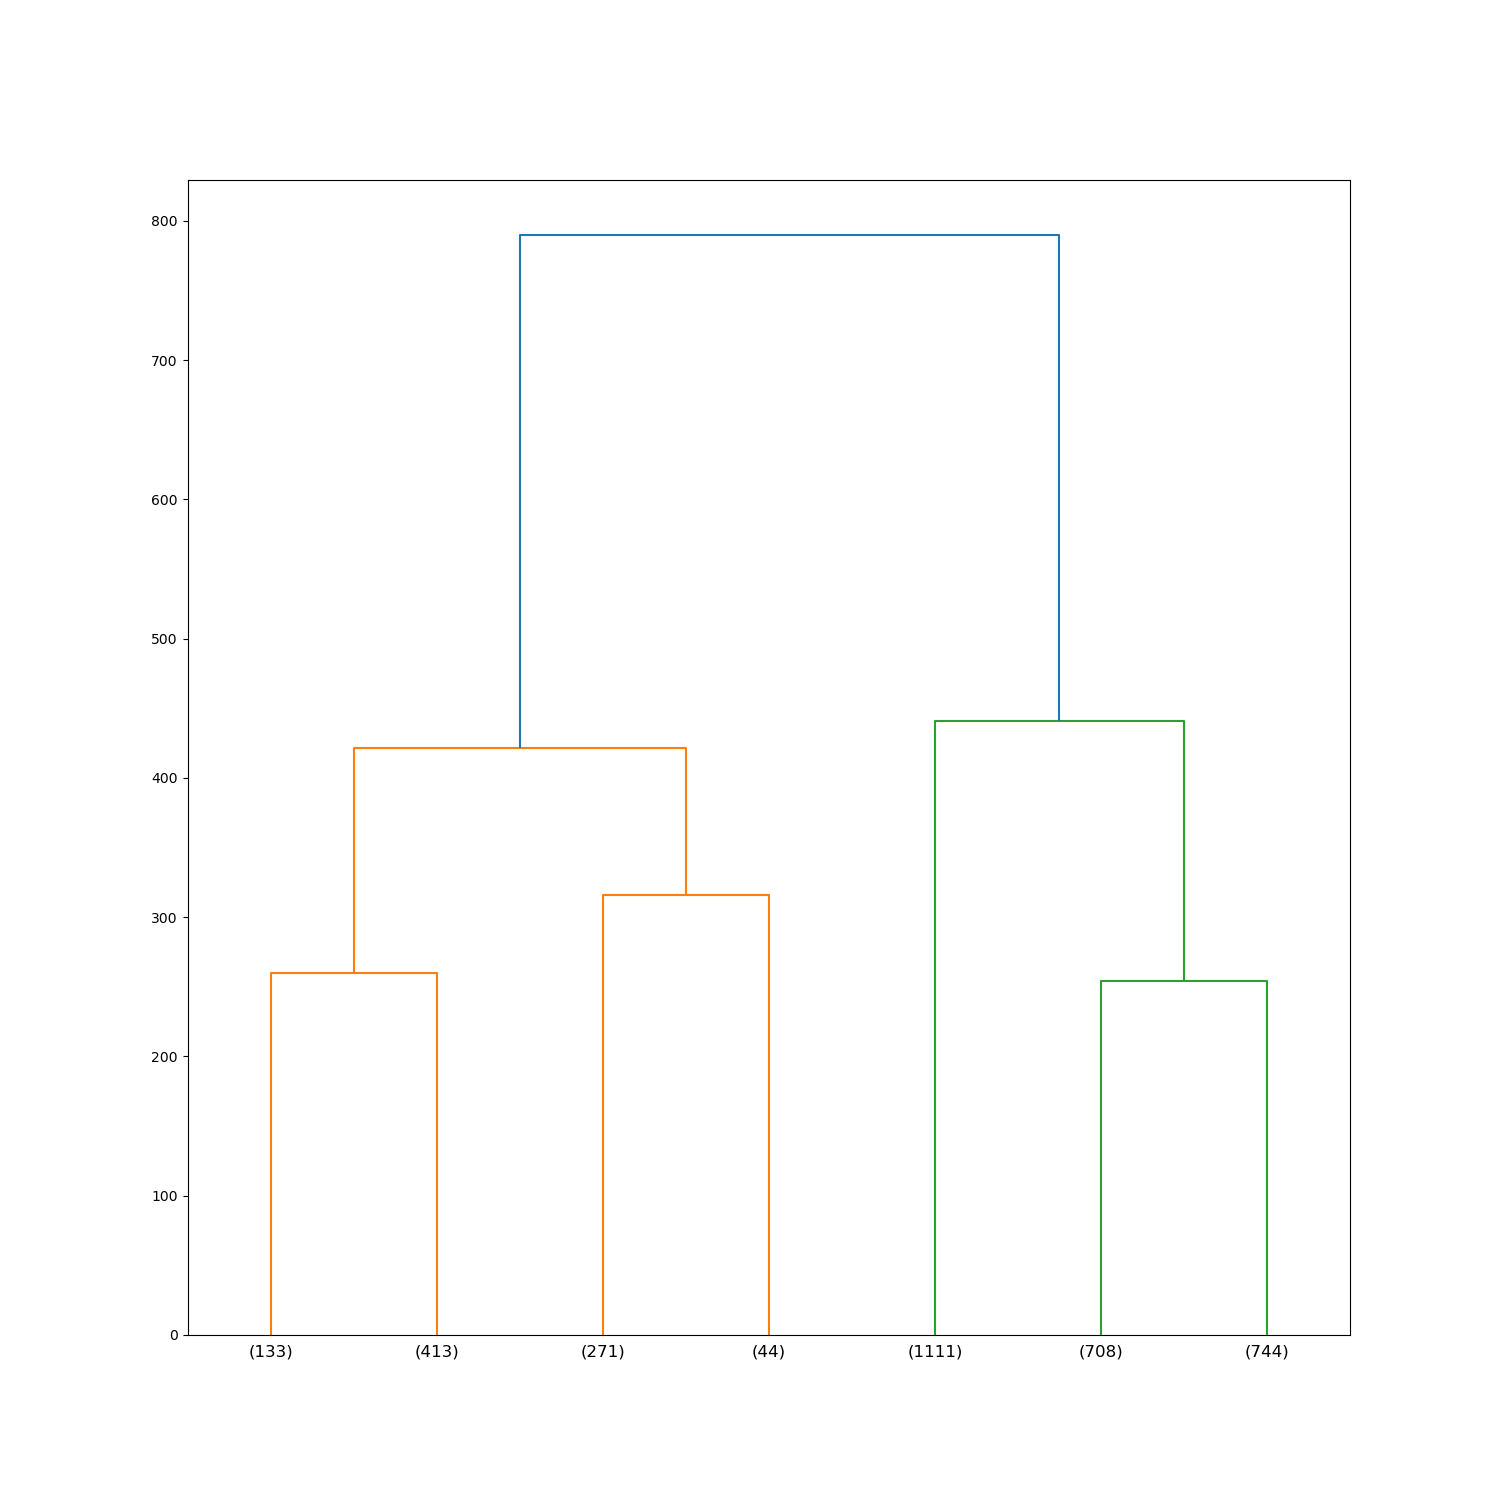
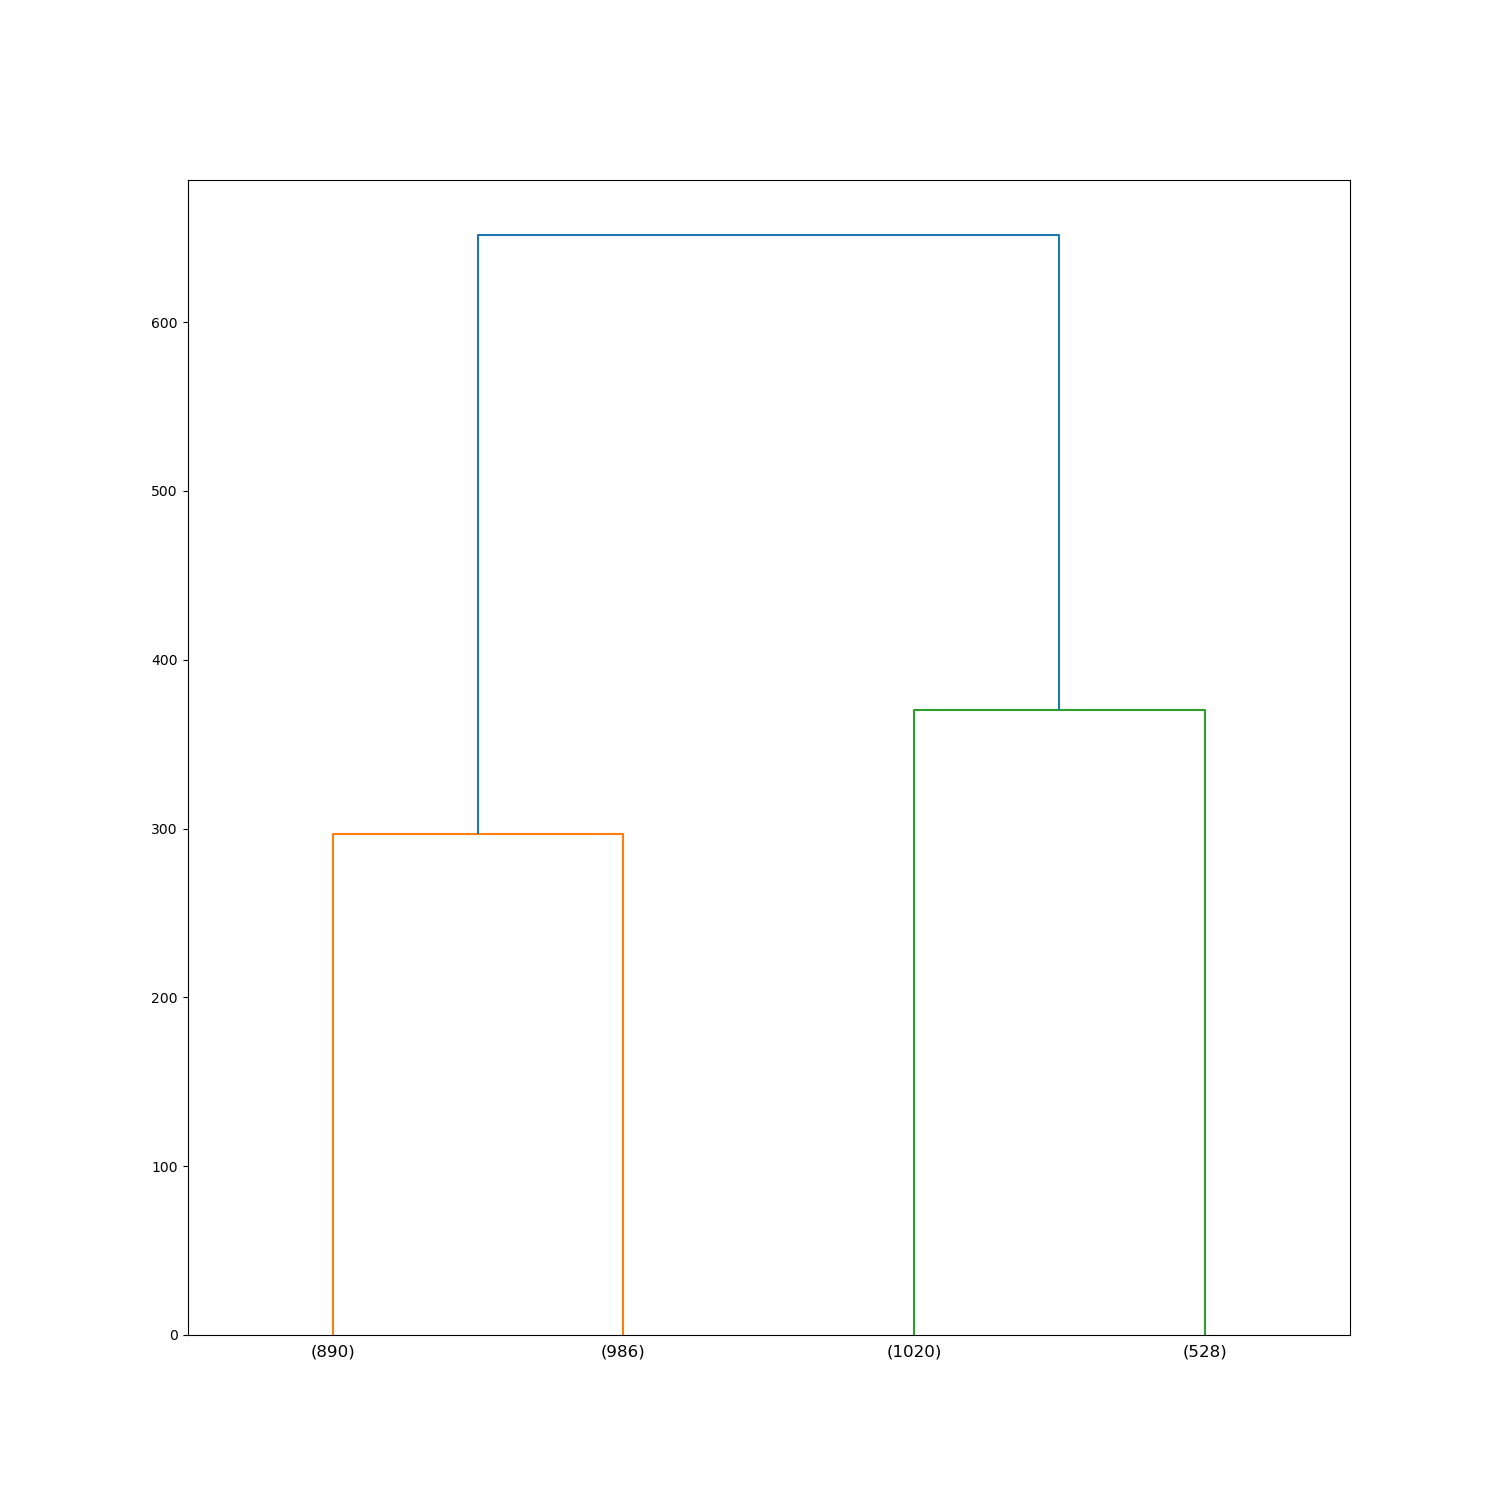
Code

diff --git a/original_images.py b/original_images.py
@@ -14,7 +14,7 @@ import cv2
 encoding_dim = 32
 
 # set the number of clusters
-n_clusters = 2
+n_clusters = 4
 
 
 # load the extracted features
@@ -151,129 +151,134 @@ df["Cluster"] = clusters
 
 
 
-# separate the dataframe into groups based on their cluster
-group_1 = df.loc[df["Cluster"] == 0]
-group_2 = df.loc[df["Cluster"] == 1]
-
-# get a list of 9 random indices for each group
-group_1_random_index = random.sample(range(0, len(group_1)), 25)
-group_2_random_index = random.sample(range(0, len(group_2)), 25)
-
-# get the galaxy id of each of the random indices for each group
-group_1_random = group_1["GalaxyID"].iloc[group_1_random_index].tolist()
-group_2_random = group_2["GalaxyID"].iloc[group_2_random_index].tolist()
-
-print(group_1_random)
-print(group_2_random)
-
-# create the figure for the plot
-fig = plt.figure(constrained_layout=False, figsize=(20, 10))
-
-# create the subfigures for the plot (each group)
-gs1 = fig.add_gridspec(nrows=5, ncols=5, left=0.05, right=0.45, wspace=0.05, hspace=0.05)
-gs2 = fig.add_gridspec(nrows=5, ncols=5, left=0.55, right=0.95, wspace=0.05, hspace=0.05)
-
-count = 0
-
-for i in range(0, 5):
-    for j in range(0, 5):
-
-        g1_ax = fig.add_subplot(gs1[i, j])
-        image = mpimg.imread("/cosma7/data/Eagle/web-storage/RefL0100N1504_Subhalo/galface_" + str(group_2_random[count]) + ".png")
-        g1_ax.imshow(image)
-        g1_ax.get_xaxis().set_visible(False)
-        g1_ax.get_yaxis().set_visible(False)
-
-        g2_ax = fig.add_subplot(gs2[i, j])
-        image = mpimg.imread("/cosma7/data/Eagle/web-storage/RefL0100N1504_Subhalo/galface_" + str(group_1_random[count]) + ".png")
-        g2_ax.imshow(image)
-        g2_ax.get_xaxis().set_visible(False)
-        g2_ax.get_yaxis().set_visible(False)
-
-        # set group title for middle plot of each group
-        if i == 0 and j == 2:
-            g1_ax.set_title(("Group 1 (" + str(np.array(group_2).shape[0]) + ")"), fontsize=25, pad=20)
-            g2_ax.set_title(("Group 2 (" + str(np.array(group_1).shape[0]) + ")"), fontsize=25, pad=20)
-
-        count += 1
-
-
-
-
-
-
-
 # # separate the dataframe into groups based on their cluster
 # group_1 = df.loc[df["Cluster"] == 0]
 # group_2 = df.loc[df["Cluster"] == 1]
-# group_3 = df.loc[df["Cluster"] == 2]
-# group_4 = df.loc[df["Cluster"] == 3]
 #
 # # get a list of 9 random indices for each group
-# group_1_random_index = random.sample(range(0, len(group_1)), 9)
-# group_2_random_index = random.sample(range(0, len(group_2)), 9)
-# group_3_random_index = random.sample(range(0, len(group_3)), 9)
-# group_4_random_index = random.sample(range(0, len(group_4)), 9)
+# group_1_random_index = random.sample(range(0, len(group_1)), 25)
+# group_2_random_index = random.sample(range(0, len(group_2)), 25)
 #
 # # get the galaxy id of each of the random indices for each group
 # group_1_random = group_1["GalaxyID"].iloc[group_1_random_index].tolist()
 # group_2_random = group_2["GalaxyID"].iloc[group_2_random_index].tolist()
-# group_3_random = group_3["GalaxyID"].iloc[group_3_random_index].tolist()
-# group_4_random = group_4["GalaxyID"].iloc[group_4_random_index].tolist()
 #
 # print(group_1_random)
 # print(group_2_random)
-# print(group_3_random)
-# print(group_4_random)
 #
-# # create figure
-# fig = plt.figure(constrained_layout=False, figsize=(20, 20))
+# # create the figure for the plot
+# fig = plt.figure(constrained_layout=False, figsize=(20, 10))
 #
-# # create sub figures within main figure, specify their location
-# gs1 = fig.add_gridspec(nrows=3, ncols=3, left=0.05, right=0.45, wspace=0.05, hspace=0.05, top=0.95, bottom=0.55)
-# gs2 = fig.add_gridspec(nrows=3, ncols=3, left=0.55, right=0.95, wspace=0.05, hspace=0.05, top=0.95, bottom=0.55)
-# gs3 = fig.add_gridspec(nrows=3, ncols=3, left=0.05, right=0.45, wspace=0.05, hspace=0.05, top=0.45, bottom=0.05)
-# gs4 = fig.add_gridspec(nrows=3, ncols=3, left=0.55, right=0.95, wspace=0.05, hspace=0.05, top=0.45, bottom=0.05)
+# # create the subfigures for the plot (each group)
+# gs1 = fig.add_gridspec(nrows=5, ncols=5, left=0.05, right=0.45, wspace=0.05, hspace=0.05)
+# gs2 = fig.add_gridspec(nrows=5, ncols=5, left=0.55, right=0.95, wspace=0.05, hspace=0.05)
 #
 # count = 0
 #
-# for i in range(0, 3):
-#     for j in range(0, 3):
+# for i in range(0, 5):
+#     for j in range(0, 5):
 #
 #         g1_ax = fig.add_subplot(gs1[i, j])
 #         image = mpimg.imread("/cosma7/data/Eagle/web-storage/RefL0100N1504_Subhalo/galface_" + str(group_2_random[count]) + ".png")
-#         g1_ax.imshow(resize_image(image, 0.06))
+#         g1_ax.imshow(image)
 #         g1_ax.get_xaxis().set_visible(False)
 #         g1_ax.get_yaxis().set_visible(False)
 #
 #         g2_ax = fig.add_subplot(gs2[i, j])
-#         print(".................")
-#         image = mpimg.imread("/cosma7/data/Eagle/web-storage/RefL0100N1504_Subhalo/galface_" + str(group_3_random[count]) + ".png")
-#         g2_ax.imshow(resize_image(image, 0.06))
+#         image = mpimg.imread("/cosma7/data/Eagle/web-storage/RefL0100N1504_Subhalo/galface_" + str(group_1_random[count]) + ".png")
+#         g2_ax.imshow(image)
 #         g2_ax.get_xaxis().set_visible(False)
 #         g2_ax.get_yaxis().set_visible(False)
-#         print("................")
-#
-#         g3_ax = fig.add_subplot(gs3[i, j])
-#         image = mpimg.imread("/cosma7/data/Eagle/web-storage/RefL0100N1504_Subhalo/galface_" + str(group_1_random[count]) + ".png")
-#         g3_ax.imshow(resize_image(image, 0.06))
-#         g3_ax.get_xaxis().set_visible(False)
-#         g3_ax.get_yaxis().set_visible(False)
-#
-#         g4_ax = fig.add_subplot(gs4[i, j])
-#         image = mpimg.imread("/cosma7/data/Eagle/web-storage/RefL0100N1504_Subhalo/galface_" + str(group_4_random[count]) + ".png")
-#         g4_ax.imshow(resize_image(image, 0.06))
-#         g4_ax.get_xaxis().set_visible(False)
-#         g4_ax.get_yaxis().set_visible(False)
 #
 #         # set group title for middle plot of each group
-#         if i == 0 and j == 1:
-#             g1_ax.set_title(("Group 1-1 (" + str(np.array(group_2).shape[0]) + ")"), fontsize=30, pad=20)
-#             g2_ax.set_title(("Group 2-1 (" + str(np.array(group_3).shape[0]) + ")"), fontsize=30, pad=20)
-#             g3_ax.set_title(("Group 1-2 (" + str(np.array(group_1).shape[0]) + ")"), fontsize=30, pad=20)
-#             g4_ax.set_title(("Group 2-2 (" + str(np.array(group_4).shape[0]) + ")"), fontsize=30, pad=20)
+#         if i == 0 and j == 2:
+#             g1_ax.set_title(("Group 1 (" + str(np.array(group_2).shape[0]) + ")"), fontsize=25, pad=20)
+#             g2_ax.set_title(("Group 2 (" + str(np.array(group_1).shape[0]) + ")"), fontsize=25, pad=20)
 #
 #         count += 1
+
+
+
+
+
+
+
+# separate the dataframe into groups based on their cluster
+group_1 = df.loc[df["Cluster"] == 0]
+group_2 = df.loc[df["Cluster"] == 1]
+group_3 = df.loc[df["Cluster"] == 2]
+group_4 = df.loc[df["Cluster"] == 3]
+
+# get a list of 9 random indices for each group
+group_1_random_index = random.sample(range(0, len(group_1)), 9)
+group_2_random_index = random.sample(range(0, len(group_2)), 9)
+group_3_random_index = random.sample(range(0, len(group_3)), 9)
+group_4_random_index = random.sample(range(0, len(group_4)), 9)
+
+# get the galaxy id of each of the random indices for each group
+group_1_random = group_1["GalaxyID"].iloc[group_1_random_index].tolist()
+group_2_random = group_2["GalaxyID"].iloc[group_2_random_index].tolist()
+group_3_random = group_3["GalaxyID"].iloc[group_3_random_index].tolist()
+group_4_random = group_4["GalaxyID"].iloc[group_4_random_index].tolist()
+
+print(group_1_random)
+print(group_2_random)
+print(group_3_random)
+print(group_4_random)
+
+print(group_1.shape[0])
+print(group_2.shape[0])
+print(group_3.shape[0])
+print(group_4.shape[0])
+
+# create figure
+fig = plt.figure(constrained_layout=False, figsize=(20, 20))
+
+# create sub figures within main figure, specify their location
+gs1 = fig.add_gridspec(nrows=3, ncols=3, left=0.05, right=0.45, wspace=0.05, hspace=0.05, top=0.95, bottom=0.55)
+gs2 = fig.add_gridspec(nrows=3, ncols=3, left=0.55, right=0.95, wspace=0.05, hspace=0.05, top=0.95, bottom=0.55)
+gs3 = fig.add_gridspec(nrows=3, ncols=3, left=0.05, right=0.45, wspace=0.05, hspace=0.05, top=0.45, bottom=0.05)
+gs4 = fig.add_gridspec(nrows=3, ncols=3, left=0.55, right=0.95, wspace=0.05, hspace=0.05, top=0.45, bottom=0.05)
+
+count = 0
+
+for i in range(0, 3):
+    for j in range(0, 3):
+
+        g1_ax = fig.add_subplot(gs1[i, j])
+        image = mpimg.imread("/cosma7/data/Eagle/web-storage/RefL0100N1504_Subhalo/galface_" + str(group_4_random[count]) + ".png")
+        g1_ax.imshow(resize_image(image, 0.06))
+        g1_ax.get_xaxis().set_visible(False)
+        g1_ax.get_yaxis().set_visible(False)
+
+        g2_ax = fig.add_subplot(gs2[i, j])
+        print(".................")
+        image = mpimg.imread("/cosma7/data/Eagle/web-storage/RefL0100N1504_Subhalo/galface_" + str(group_3_random[count]) + ".png")
+        g2_ax.imshow(resize_image(image, 0.06))
+        g2_ax.get_xaxis().set_visible(False)
+        g2_ax.get_yaxis().set_visible(False)
+        print("................")
+
+        g3_ax = fig.add_subplot(gs3[i, j])
+        image = mpimg.imread("/cosma7/data/Eagle/web-storage/RefL0100N1504_Subhalo/galface_" + str(group_2_random[count]) + ".png")
+        g3_ax.imshow(resize_image(image, 0.06))
+        g3_ax.get_xaxis().set_visible(False)
+        g3_ax.get_yaxis().set_visible(False)
+
+        g4_ax = fig.add_subplot(gs4[i, j])
+        image = mpimg.imread("/cosma7/data/Eagle/web-storage/RefL0100N1504_Subhalo/galface_" + str(group_1_random[count]) + ".png")
+        g4_ax.imshow(resize_image(image, 0.06))
+        g4_ax.get_xaxis().set_visible(False)
+        g4_ax.get_yaxis().set_visible(False)
+
+        # set group title for middle plot of each group
+        if i == 0 and j == 1:
+            g1_ax.set_title(("Group 1-1 (" + str(np.array(group_4).shape[0]) + ")"), fontsize=30, pad=20)
+            g2_ax.set_title(("Group 2-1 (" + str(np.array(group_3).shape[0]) + ")"), fontsize=30, pad=20)
+            g3_ax.set_title(("Group 1-2 (" + str(np.array(group_2).shape[0]) + ")"), fontsize=30, pad=20)
+            g4_ax.set_title(("Group 2-2 (" + str(np.array(group_1).shape[0]) + ")"), fontsize=30, pad=20)
+
+        count += 1
 
 
 

diff --git a/clustering.py b/clustering.py
@@ -66,8 +66,8 @@ hierarchical = hierarchical.fit(extracted_features)
 
 plt.figure(figsize=(15,15))
 
-plot_dendrogram(hierarchical, truncate_mode="lastp", p=7)
-# plot_dendrogram(hierarchical, truncate_mode="level", p=5, color_threshold=0, link_color_func=lambda k:"black")
+plot_dendrogram(hierarchical, truncate_mode="lastp", p=4)
+# plot_dendrogram(hierarchical, truncate_mode="level", p=4, color_threshold=0, link_color_func=lambda k:"black")
 
 # plt.axhline(y=375)
 # plt.axhline(y=235)
